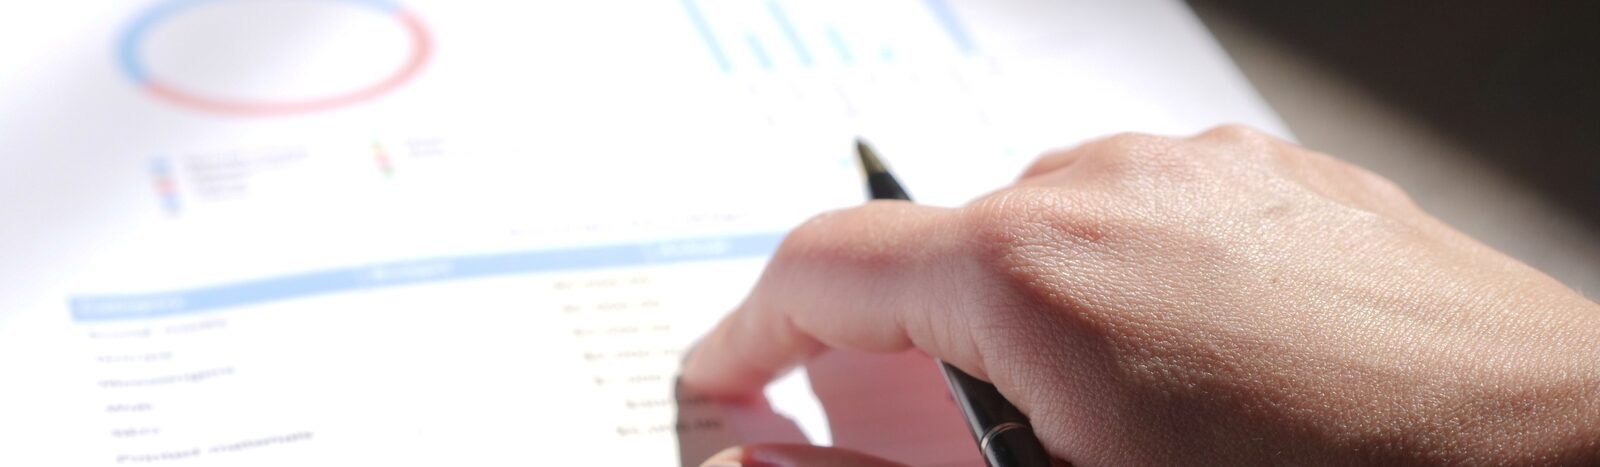
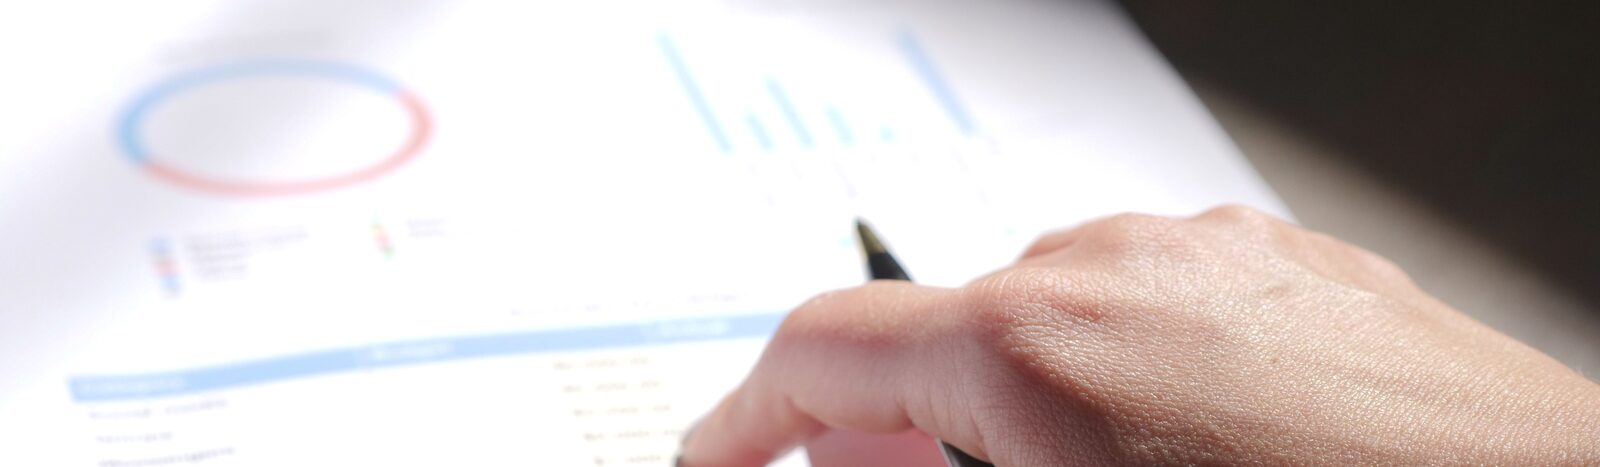
feat: use the report photo for My reports and re-cut the trip photo
Replace the drawn "My reports" illustration with the supplied photo of a
hand holding a pen over a printed report with charts. This completes the
driver artwork set: all four actions are now photographs and no guide SVGs
remain in the project.

- Add driver-reports-photo.jpg, cropped to the 1200/350 carousel stage
  ratio so the donut and bar charts, the hand and the pen all stay in
  frame, downscaled to 1600px and stripped of EXIF. 51 KB instead of the
  657 KB original.
- Delete driver-reports-guide.svg and update the Dockerfile asset list.

Re-cut the trip photo, which the shorter carousel stage had broken:

- The stage is now 1200/350 (3.43) while the trip photo was 2.14, so
  object-fit: cover showed only 62.5% of its height and sliced "METERED"
  in half at the bottom edge, with "FLAT FARE JFK" and the door handle
  cropped away entirely.
- Re-cut driver-trip-photo.jpg from the original at the stage ratio, framed
  so METERED FARE, FLAT FARE JFK, the door handle and the hand are all
  fully visible with nothing sliced. 97 KB.
- The fuel and maintenance photos are also 2.14 and are cropped the same
  way, but both read cleanly through it, so they are left as approved.
- Add a ?v=2 parameter to the trip photo. Its bytes changed under an
  unchanged filename, and the images are served with a one hour cache, so
  without a version bump returning visitors would keep seeing the old crop.
  Bump this again if that photo is replaced.

diff --git a/index.html b/index.html
@@ -2260,7 +2260,7 @@
           <div class="driver-guide-stage">
             <div class="driver-guide-slides" id="driver-guide-slides">
               <figure class="driver-guide-slide is-active" data-driver-guide-slide="0" role="group" aria-roledescription="slide">
-                <img src="driver-trip-photo.jpg" alt="" width="1600" height="747" decoding="async">
+                <img src="driver-trip-photo.jpg?v=2" alt="" width="1600" height="467" decoding="async">
                 <figcaption class="driver-guide-overlay">
                   <strong data-i18n="guideTripTitle">Record a trip</strong>
                   <span data-i18n="guideTripText">Route, passengers and fare</span>
@@ -2281,7 +2281,7 @@
                 </figcaption>
               </figure>
               <figure class="driver-guide-slide" data-driver-guide-slide="3" role="group" aria-roledescription="slide" aria-hidden="true">
-                <img src="driver-reports-guide.svg" alt="" width="1200" height="560" decoding="async">
+                <img src="driver-reports-photo.jpg" alt="" width="1600" height="467" decoding="async">
                 <figcaption class="driver-guide-overlay">
                   <strong data-i18n="guideReportsTitle">My reports</strong>
                   <span data-i18n="guideReportsText">Review and edit past reports</span>
@@ -2300,10 +2300,10 @@
           </div>
         </section>
         <div class="driver-menu-grid" role="tablist" aria-label="Driver actions" data-i18n-aria-label="driverActionsLabel">
-          <button type="button" id="driver-trip-tab" class="driver-menu-button" data-driver-menu-view="trip" role="tab" aria-selected="false" aria-controls="driver-trip-section" tabindex="-1"><span class="driver-menu-image" aria-hidden="true"><img src="driver-trip-photo.jpg" alt="" decoding="async"></span><strong data-i18n="menuTrip">Record a trip</strong><span data-i18n="menuTripHelp">Enter the trip you are taking.</span></button>
+          <button type="button" id="driver-trip-tab" class="driver-menu-button" data-driver-menu-view="trip" role="tab" aria-selected="false" aria-controls="driver-trip-section" tabindex="-1"><span class="driver-menu-image" aria-hidden="true"><img src="driver-trip-photo.jpg?v=2" alt="" decoding="async"></span><strong data-i18n="menuTrip">Record a trip</strong><span data-i18n="menuTripHelp">Enter the trip you are taking.</span></button>
           <button type="button" id="driver-fuel-tab" class="driver-menu-button" data-driver-menu-view="fuel" role="tab" aria-selected="false" aria-controls="driver-fuel-section" tabindex="-1"><span class="driver-menu-image" aria-hidden="true"><img src="driver-fuel-photo.jpg" alt="" decoding="async"></span><strong data-i18n="menuFuel">Fuel</strong><span data-i18n="menuFuelHelp">Record fuel taken.</span></button>
           <button type="button" id="driver-maintenance-tab" class="driver-menu-button" data-driver-menu-view="maintenance" role="tab" aria-selected="false" aria-controls="driver-maintenance-section" tabindex="-1"><span class="driver-menu-image" aria-hidden="true"><img src="driver-maintenance-photo.jpg" alt="" decoding="async"></span><strong data-i18n="menuMaintenance">Expenses &amp; maintenance</strong><span data-i18n="menuMaintenanceHelp">Record service, faults, and costs.</span></button>
-          <button type="button" id="driver-reports-tab" class="driver-menu-button" data-driver-menu-view="reports" role="tab" aria-selected="false" aria-controls="driver-reports-section" tabindex="-1"><span class="driver-menu-image" aria-hidden="true"><img src="driver-reports-guide.svg" alt="" decoding="async"></span><strong data-i18n="menuReports">My reports</strong><span data-i18n="menuReportsHelp">Review and edit past reports.</span></button>
+          <button type="button" id="driver-reports-tab" class="driver-menu-button" data-driver-menu-view="reports" role="tab" aria-selected="false" aria-controls="driver-reports-section" tabindex="-1"><span class="driver-menu-image" aria-hidden="true"><img src="driver-reports-photo.jpg" alt="" decoding="async"></span><strong data-i18n="menuReports">My reports</strong><span data-i18n="menuReportsHelp">Review and edit past reports.</span></button>
         </div>
       </section>
 
